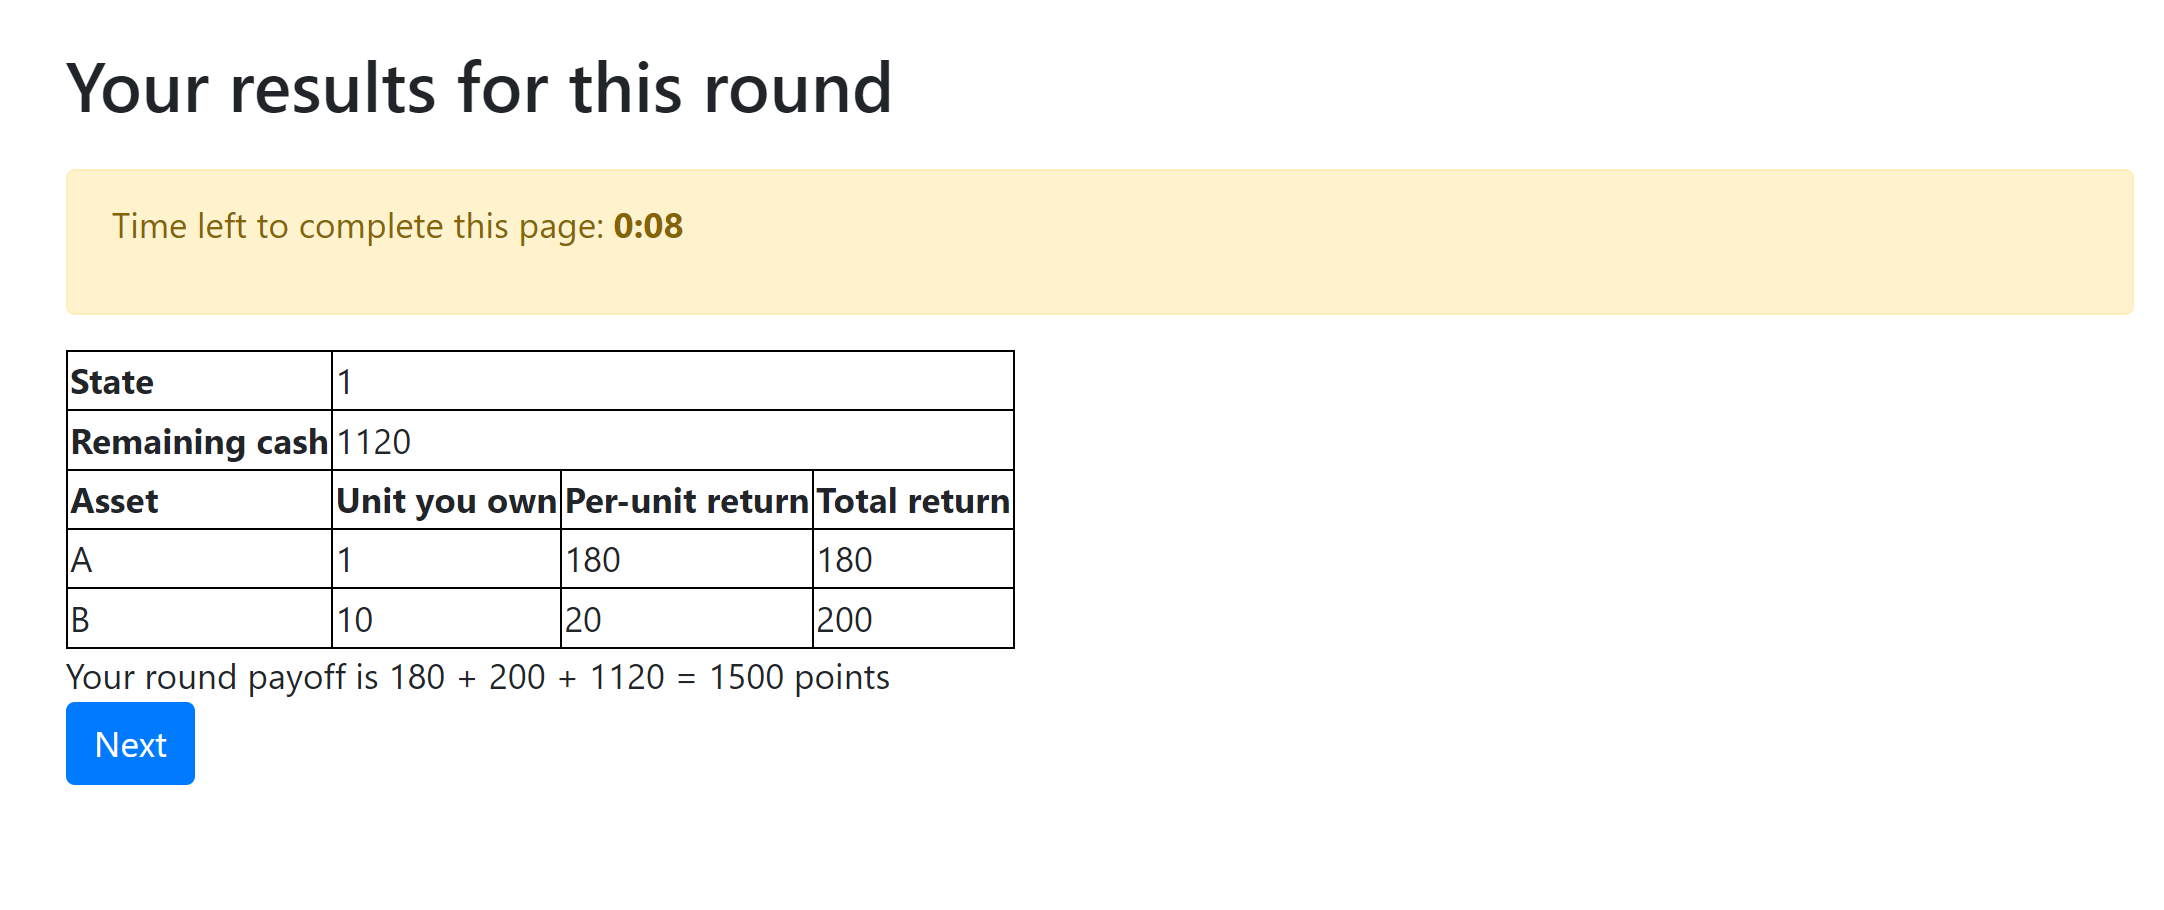
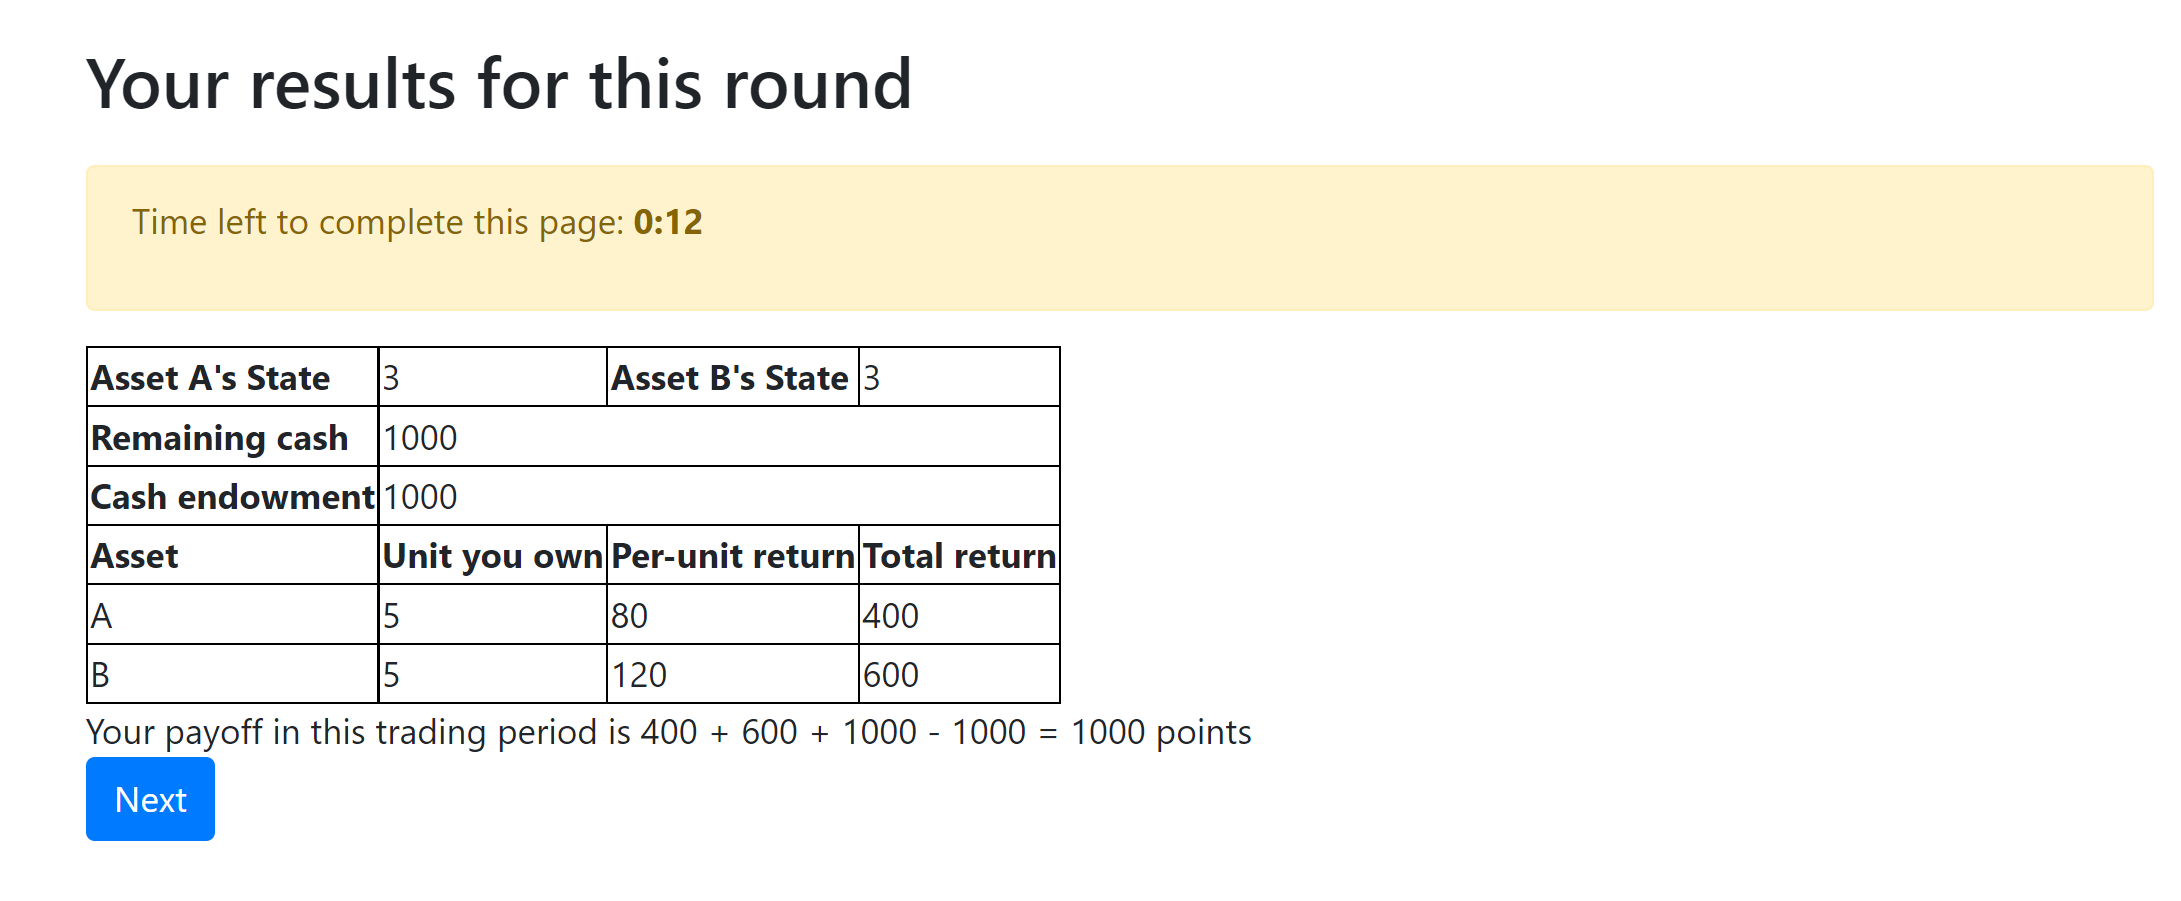
debug

diff --git a/salience_market/templates/salience_market/Instruction.html b/salience_market/templates/salience_market/Instruction.html
@@ -126,11 +126,12 @@ The page also shows the total payoff for this trading period. After the result p
 </p>
 
 <p>
-The payoff from trading in each period will be your remaining cash, plus your earning from your final asset holding.
+The payoff from trading in each period will be your remaining cash + your earning from your final asset holding - your initial cash endowment.
 The figure below shows an example of the result page, and you can clearly see the payoff you get in this trading period.
-From the figure, you can see that the true state of the world is "state 1", your remaining cash is 1120 points,
-and you own 1 unit of Asset A which pays 180 points per unit under state 1. You also own 10 units of Asset B that pays 20 per unit under state 1.
-So your final payoff is 1120 + 180*1 + 20*10 = 1500 points.
+From the figure, you can see that the true state of the world is "state 3" for both assets, your remaining cash is 1000 points,
+the cash endowment is 1000 points,
+and you own 5 unit of Asset A which pays 80 points per unit under state 3. You also own 5 units of Asset B that pays 120 per unit under state 3.
+So your final payoff is 1000 + 80*5 + 120*5 - 1000 = 1000 points.
 </p>
 
 <img src="{% static 'salience_market/ui_result.png' %}" width="80%" height="auto"/>

diff --git a/salience_market/templates/salience_market/RoundResults.html b/salience_market/templates/salience_market/RoundResults.html
@@ -1,7 +1,7 @@
 {% extends "global/Page.html" %}
 {% load otree %}
 {% block title %}
-Your results for this round
+Your results for this trading period
 {% endblock %}
 {% block content %}
 <style>
@@ -22,7 +22,7 @@ Your results for this round
     {% else %}
     <tr>
         <th>Assets' State</th>
-        <td>{{state_a}}</td>
+        <td colspan="3">{{state_a}}</td>
     </tr>
     {% endif %}
     <tr>

diff --git a/salience_market/models.py b/salience_market/models.py
@@ -10,7 +10,7 @@ import time
 
 class Constants(BaseConstants):
     name_in_url = 'salience_market'
-    players_per_group = 4
+    players_per_group = 8
     # Otree requires this to be set. But it is not used.
     num_rounds = 100
     # Seed for the state random selection.
